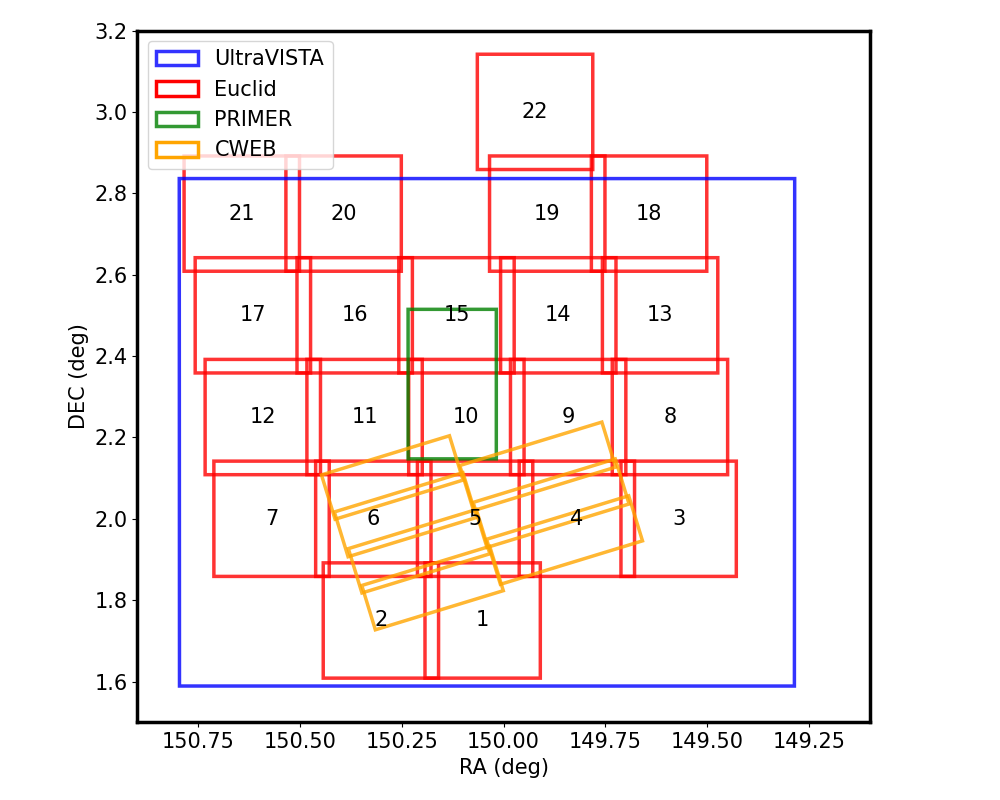
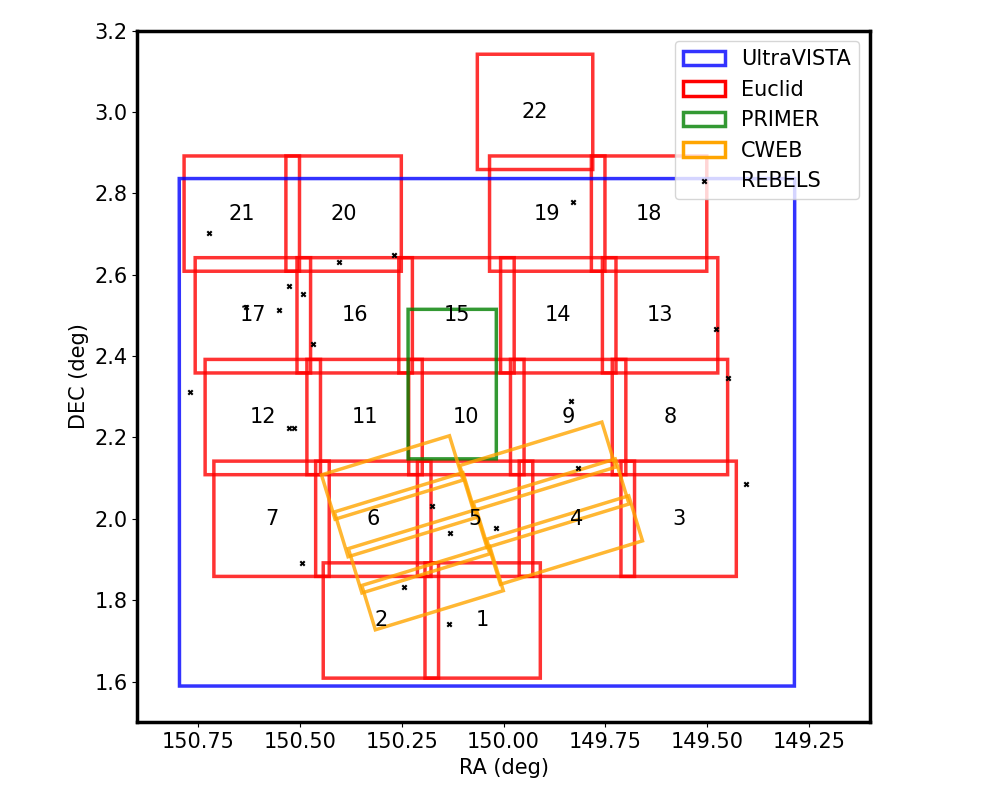
images mosaiced - need to check if combine is avg or wht. Started cutout codes - preliminary is checking which euclid/jwst tile to open

Changed region(s): [[0.682, 0.0625, 0.868, 0.25], [0.155, 0.0625, 0.341, 0.2188]]

diff --git a/src/cutouts/cutout_codes.py b/src/cutouts/cutout_codes.py
@@ -1,0 +1,118 @@
+"""
+cutout_codes.py
+
+Functions and classes used to make cutouts
+
+Created: Thursday 21st March 2024.
+"""
+
+from shapely.geometry import Point, Polygon
+import numpy as np
+from pathlib import Path
+from astropy.io import ascii
+
+
+
+
+def isCoordInSurveyFootprints(ra: np.ndarray, dec: np.ndarray) -> np.ndarray:
+    """
+    Check if a coordinate lies in the footprints of:
+        1) Euclid On-the-fly COSMOS release
+        2) COSMOS-Web
+        3 )PRIMER
+
+    Parameters
+    ----------
+    ra : np.array
+        Right ascension of the coordinate in degrees.
+    dec : np.array
+        Declination of the coordinate in degrees.
+
+
+    Returns
+    -------
+    np.ndarray
+        Array with rows corresponding to the input coordinates and columns corresponding to the footprints.
+        The value is '0' if it is not in the footprint.
+        If it is in the footprint then: 
+            for Euclid it takes a numeric string value of the tile label I have assigned (1-22).
+            for CWEB it takes a numeric string value of the tile label Nathan has assigned (4A, 5A, 5B, 6A, etc.)
+            for PRIMER it takes the value '1'.
+
+    """
+
+    # Check if ra and dec are arrays
+    ra = np.array(ra)
+    dec = np.array(dec)
+
+    assert ra.shape == dec.shape, "ra and dec arrays must have the same shape"
+
+    points = [Point(ra, dec) for ra, dec in zip(ra, dec)]
+
+    # Load the footprints
+    euclid_footprint = np.load(Path.cwd().parent.parent / 'data' / 'mosaic' / 'euclid_footprint.npy')
+    primer_footprint = np.load(Path.cwd().parent.parent / 'data' / 'mosaic' / 'primer_footprint.npy')
+    cweb_footprint = np.load(Path.cwd().parent.parent / 'data' / 'mosaic' / 'cweb_footprint.npy')
+
+    # Load the labels for CWEB and Euclid
+    euclid_labels = np.load(Path.cwd().parent.parent / 'data' / 'mosaic' / 'euclid_labels.npy')
+    cweb_labels = np.load(Path.cwd().parent.parent / 'data' / 'mosaic' / 'cweb_labels.npy')
+
+    # Create shapely polygons
+    euclid_polygons = [Polygon(footprint) for footprint in euclid_footprint]
+    cweb_polygons = [Polygon(footprint) for footprint in cweb_footprint]
+    primer_polygons = Polygon(primer_footprint)
+
+    points_in_euclid = []
+    points_in_cweb = []
+    points_in_primer = []
+
+    for point in points:
+
+        in_euclid = 0
+        in_cweb = 0
+        in_primer = 0
+
+        #! Check if the point lies in any of the Euclid polygons
+        for i, polygon in enumerate(euclid_polygons):
+            if polygon.contains(point):
+                in_euclid = euclid_labels[i]
+                break
+
+        #! Check if the point lies in any of the COSMOS-Web polygons
+        for i, polygon in enumerate(cweb_polygons):
+            if polygon.contains(point):
+                in_cweb = cweb_labels[i]
+                break
+
+        #! Check if point lies in PRIMER footprint
+        if primer_polygons.contains(point):
+            in_primer = 1
+
+        # Append results of search to lists
+        points_in_euclid.append(in_euclid)
+        points_in_cweb.append(in_cweb)
+        points_in_primer.append(in_primer)
+    
+    # Convert lists to numpy arrays
+    euclid_mask = np.array(points_in_euclid)
+    cweb_mask = np.array(points_in_cweb)
+    primer_mask = np.array(points_in_primer)
+
+    return np.column_stack((euclid_mask, cweb_mask, primer_mask))
+
+
+
+
+t = ascii.read(Path.cwd().parent.parent / 'data' / 'mosaic' / 'REBELS.csv', format='csv')
+
+ra = t['RA']
+dec = t['Dec']
+
+
+class Cutout:
+    """
+    Class to make cutouts of images in our various fields
+    """
+
+    

diff --git a/src/cutouts/save_survey_footprints.py b/src/cutouts/save_survey_footprints.py
@@ -1,0 +1,71 @@
+"""
+save_survey_footprints.py
+
+Get the footprints of Euclid, CWEB and PRIMER tiles to use in a function that checks if a point lies in the footprint of a tile.
+
+Created: Thursday 21st March 2024.
+"""
+
+from astropy.io import fits
+from pathlib import Path
+import glob
+from astropy.wcs import WCS
+import numpy as np
+
+#! Save Euclid footprint
+euclid_dir = Path.home() / 'euclid' / 'Y' / 'COSMOS'
+images = glob.glob(str(euclid_dir / '*BGSUB-*'))
+
+euclid_footprint = []
+euclid_labels = []
+
+for i, image in enumerate(images):
+
+    label = image.split('_')[-1].split('.')[0]
+
+    with fits.open(image) as hdul:
+
+        wcs = WCS(hdul[0].header)
+        footprint = wcs.calc_footprint()
+        euclid_footprint.append(footprint)
+        euclid_labels.append(label)
+
+euclid_footprint = np.array(euclid_footprint)
+euclid_labels = np.array(euclid_labels)
+print(euclid_footprint.shape)
+np.save(Path.cwd().parent.parent / 'data' / 'mosaic' / 'euclid_footprint.npy', euclid_footprint)
+np.save(Path.cwd().parent.parent / 'data' / 'mosaic' / 'euclid_labels.npy', euclid_labels)
+
+#! Save PRIMER footprint
+primer = Path.home() / 'JWST' / 'primer_cosmos_nircam_v0.5_f444w_30mas_sci.fits'
+with fits.open(primer) as hdu_primer:
+    wcs_primer = WCS(hdu_primer[0].header)
+    primer_footprint = wcs_primer.calc_footprint()
+
+np.save(Path.cwd().parent.parent / 'data' / 'mosaic' / 'primer_footprint.npy', primer_footprint)
+
+
+#! Save the COSMOS-Web footprint
+jwst_dir = Path.home().parent.parent / 'extraspace' / 'varadaraj' / 'CWEB'
+jwst_files = glob.glob(str(jwst_dir / '*F444W*'))
+
+jwst_footprints = []
+jwst_labels = []
+
+for jwst_file in jwst_files:
+
+    label = jwst_file.split('-')[-1].split('_')[0] 
+    
+    with fits.open(jwst_file) as hdu_jwst:
+
+        wcs_jwst = WCS(hdu_jwst[1].header)
+        jwst_footprint = wcs_jwst.calc_footprint()
+        jwst_footprints.append(jwst_footprint)
+        jwst_labels.append(label)
+
+jwst_footprints = np.array(jwst_footprints)
+jwst_labels = np.array(jwst_labels)
+np.save(Path.cwd().parent.parent / 'data' / 'mosaic' / 'cweb_footprint.npy', jwst_footprints)
+np.save(Path.cwd().parent.parent / 'data' / 'mosaic' / 'cweb_labels.npy', jwst_labels)
+
+

diff --git a/src/file_management/swarp.py b/src/file_management/swarp.py
@@ -1,0 +1,58 @@
+#!/usr/bin/env python3
+
+"""
+swarp.py
+
+Swarp together the Euclid tiles to make a full mosaic.
+
+Created: Thursday 21st March 2024.
+"""
+
+import os
+from astropy.io import fits
+import glob
+from pathlib import Path
+
+euclid_dir = Path.home() / 'euclid'
+field_name = 'COSMOS'
+filter_names = ['VIS'] #, 'J', 'H', 'VIS']
+
+# Define the sorting function
+def sort_by_number(filename):
+    return int(filename.split('_')[-1].split('.')[0])
+
+
+
+for filter_name in filter_names:
+
+    # Get all the fits files for the filter.
+    fits_files = glob.glob(str(euclid_dir / filter_name / field_name / '*BGSUB*.fits'))
+    rms_files = glob.glob(str(euclid_dir / filter_name / field_name / '*RMS*.fits'))
+
+    # Sort fits_files and rms_files based on the numeric part of the filenames
+    fits_files = sorted(fits_files, key=sort_by_number)
+    rms_files = sorted(rms_files, key=sort_by_number)
+
+    # Create a list of the images to swarp together.
+    images = ' '.join(fits_files)
+
+    # Create a list of the rms images
+    rms = '-WEIGHT_IMAGE ' + ','.join(rms_files)
+
+    # Output directory.
+    output_dir = euclid_dir / field_name
+
+    # Output file.
+    output_file = output_dir / f'{field_name}_{filter_name}_MOSAIC.fits'
+
+    outrms_file = output_dir / f'{field_name}_{filter_name}_MOSAIC_RMS.fits'
+
+    # Key words
+    config_string = '-c ./euclid.swarp'
+
+    # Swarp command.
+    swarp_command = f'swarp {images} {rms} {config_string} -IMAGEOUT_NAME {output_file} -WEIGHTOUT_NAME {outrms_file}'
+    print(swarp_command)
+
+    # Run the swarp command.
+    #os.system(swarp_command)

diff --git a/src/file_management/plot_mosaic.py b/src/file_management/plot_mosaic.py
@@ -7,7 +7,7 @@ The tiles are numbered from left to right, top to bottom, i.e. in increasing ord
 Created: Wednesday 20th March 2024.
 """
 
-from astropy.io import fits
+from astropy.io import fits, ascii
 import matplotlib.pyplot as plt
 from pathlib import Path
 import glob
@@ -109,12 +109,20 @@ for jwst_file in jwst_files:
 dummy = Polygon([[0,0], [1,1], [1,0], [0,1]], closed=True, edgecolor='orange', facecolor='none', lw=2.5, label='CWEB')
 ax.add_patch(dummy)
 
+#! Plot positions of REBELS galaxies
+rebels = ascii.read(Path.cwd().parent.parent / 'data' / 'mosaic' / 'REBELS.csv', format='csv')
+rebels_ra = rebels['RA']
+rebels_dec = rebels['Dec']
+
+# Plot the REBELS galaxies
+ax.scatter(rebels_ra, rebels_dec, marker='x', color='black', s=10, label='REBELS')
+
 # Set axis limits and labels
 ax.set_xlim(150.9, 149.1)
 ax.set_ylim(1.5, 3.2)
 ax.set_xlabel('RA (deg)')
 ax.set_ylabel('DEC (deg)')
-ax.legend(loc='upper left')
+ax.legend(loc='upper right')
 plt.gca().set_aspect('equal', adjustable='box')
 plt.tight_layout()
 plt.savefig(Path.cwd().parent.parent / 'plots' / 'mosaic' / 'mosaic.png')
